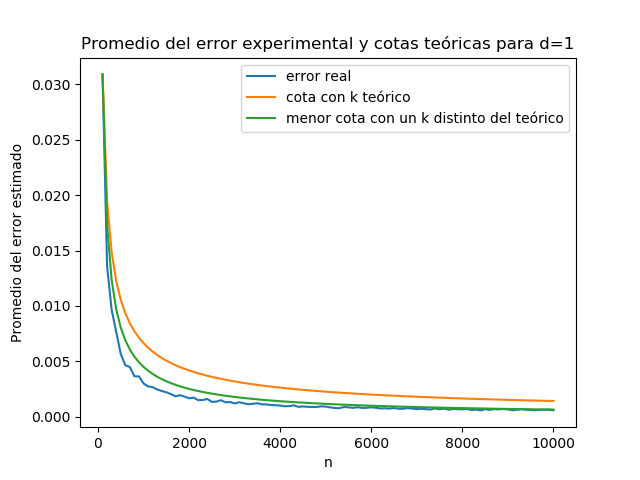
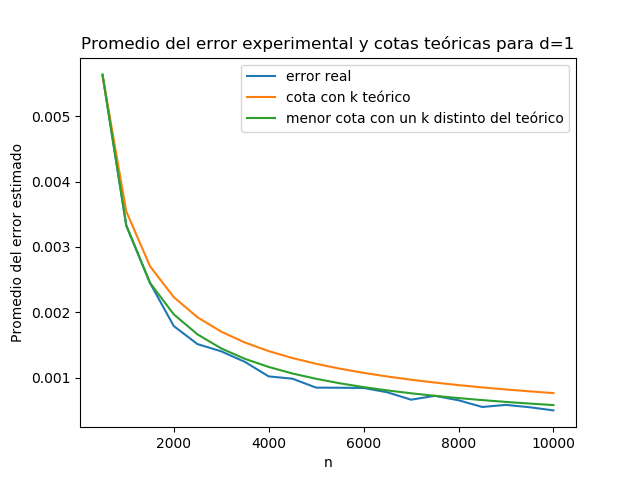
Estado que me encontré el domingo a la tarde antes de empezar el informe

diff --git a/tp_final/experimento.py b/tp_final/experimento.py
@@ -154,7 +154,11 @@ def generar_Xn_Yn(funcion_original,funcion_ruido,n,d):
     return x_n, y_n
 
 def generar_predictor(x_n,y_n,kernel,d):
-    return suma_kernelizada(kernel,d,x_n,y_n)
+    n=x_n.shape[0]
+    h_n=0.8548*(n**(-1.0/(4.054*d)))
+    #h_n=10.0**(-1.0/d)
+    k_hn = ancho_kernel(kernel,h_n)
+    return suma_kernelizada(k_hn,d,x_n,y_n)
 
 def generar_predictor_a_partir_de_datos(funcion_original,funcion_ruido,n,d,kernel):
     x_n,y_n=generar_Xn_Yn(funcion_original,funcion_ruido,n,d)
@@ -180,7 +184,7 @@ def kernel_naive(x):
 """
 Encuentra la media del error L2 promediando el obtenido a partir de estimar_error_L2 para q regresiones y qq estimaciones de la regresión para cada q (obtenida cada una a partir de )
 """
-def encontrarE(n,d,q=100,qq=3,kernel_prediccion=ancho_kernel(kernel_naive,0.1)):
+def encontrarE(n,d,q=100,qq=1,kernel_prediccion=kernel_naive):
     logging.info("Voy a calcular E para n={}, d={}, q={}, qq={}".format(n,d,q,qq))
     suma_estimaciones_L2 = .0
     cantidad_estimaciones_L2 = 0
@@ -221,7 +225,7 @@ from time import gmtime, strftime
 hs=strftime("%d-%b-%Y-%H-%M-%S", gmtime())
 
 Es=[]
-for d in [4,6,8]:#[1,2,3,10,30,100]:
+for d in [1,2,3,4,6,8,10]:#[1,2,3,10,30,100]:
     for i in range(20):
         Es.append(encontrarE(500*(i+1),d))
     with open("salida_experimento_{}------2.pickle".format(hs),"wb") as f:

diff --git a/tp_final/reportes_experimento.py b/tp_final/reportes_experimento.py
@@ -54,7 +54,7 @@ def calcular_k_c_cideal_para_d(d):
         return c*(x**(-k))
     return np.asscalar(k), np.asscalar(c), funcional(k), c_ideal, funcion_ideal, funcion_real
 
-ds=[1,2,3,4,6,8,10,30]
+ds=[1,2,3,4,6,8,10]
 ks,cs,es,c_ideales,funciones_ideales,funciones_reales = zip(*[
     calcular_k_c_cideal_para_d(d) for d in ds
 ])
